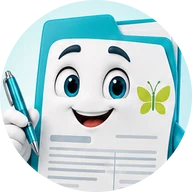
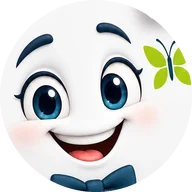
Turma: Proposta nova (desenho do Anderson)
Claude-Session: https://claude.ai/code/session_01J4Z1XWxze9kpV6e58orTjR

diff --git a/index.html b/index.html
@@ -9,7 +9,7 @@
 <meta http-equiv="Content-Security-Policy" content="default-src 'self'; script-src 'self' https://cdn.jsdelivr.net; style-src 'self'; img-src 'self' data:; connect-src 'self' https://*.supabase.co wss://*.supabase.co; object-src 'none'; base-uri 'none'; form-action 'none'">
 <meta name="referrer" content="no-referrer">
 <title>CRM</title>
-<meta name="crm-versao" content="5612957d1f6e">
+<meta name="crm-versao" content="943aa61b84cc">
 <link rel="icon" href="assets/logo.jpg?v=c886df2fc5">
 <link rel="stylesheet" href="crm.css?v=6cde39902c">
 </head>
@@ -50,7 +50,7 @@
 <div id="impressao" class="impressao"></div>
 <div id="toast" class="toast" role="status" aria-live="polite"></div>
 
-<script src="config.js?v=e5159e7d89"></script>
+<script src="config.js?v=b2e62627a0"></script>
 <script src="regras.js?v=79de468a56"></script>
 <script src="cadencia.js?v=8905237dde"></script>
 <script src="dados.js?v=d10a5649f3"></script>

diff --git a/config.js b/config.js
@@ -17,7 +17,7 @@ window.CRM_CONFIG = {
   // (topo, de corpo inteiro, guia do dia e conversa); o especialista de cada tela aparece dentro do painel; o Andi
   // recebe no login. turma.js explica. Trocar um desenho: mesmo nome de arquivo e subir a `versao`.
   turma: {
-    pasta: 'assets/turma/', versao: '6',
+    pasta: 'assets/turma/', versao: '7',
     principal: 'clean', anfitriao: 'andi',
     boasVindas: 'Olá! Eu sou o Andi, assistente virtual da OneClean. Entre com o seu e-mail e a sua senha para começar.',
     mascotes: {

diff --git a/CLAUDE.md b/CLAUDE.md
@@ -1254,6 +1254,8 @@ e círculo); recortados sem fundo com o rembg (isnet) em `assets/turma/<id>.webp
   Desenho novo com papel ou parte branca por dentro: conferir sobre fundo colorido antes de publicar.
   **Cobrança nova (18/10, `versao` 6):** o Anderson mandou outro desenho (calendário com celular, já sem fundo); corpo = o
   arquivo dele reduzido, rosto = recorte do alto (olhos e gravata) sobre fundo claro.
+  **Proposta nova (18/10, `versao` 7):** desenho do Anderson (folha com gravata-borboleta e caneta, já sem fundo), no
+  orçamento em PDF e nas telas de Funil e Negócios.
   **Orçamento com a Proposta (18/10, aprovado pelo Anderson pelo PDF de exemplo):** o mascote de `turma.telas.negocios` ao
   lado da frase de destaque (`proposta_chamada`), como a Cobrança no boleto (`fichas.js` → `montaProposta`; 24 mm no modo
   denso). Sem frase de destaque ou sem `turma` no config, sai sem mascote. Continua cabendo numa folha.
